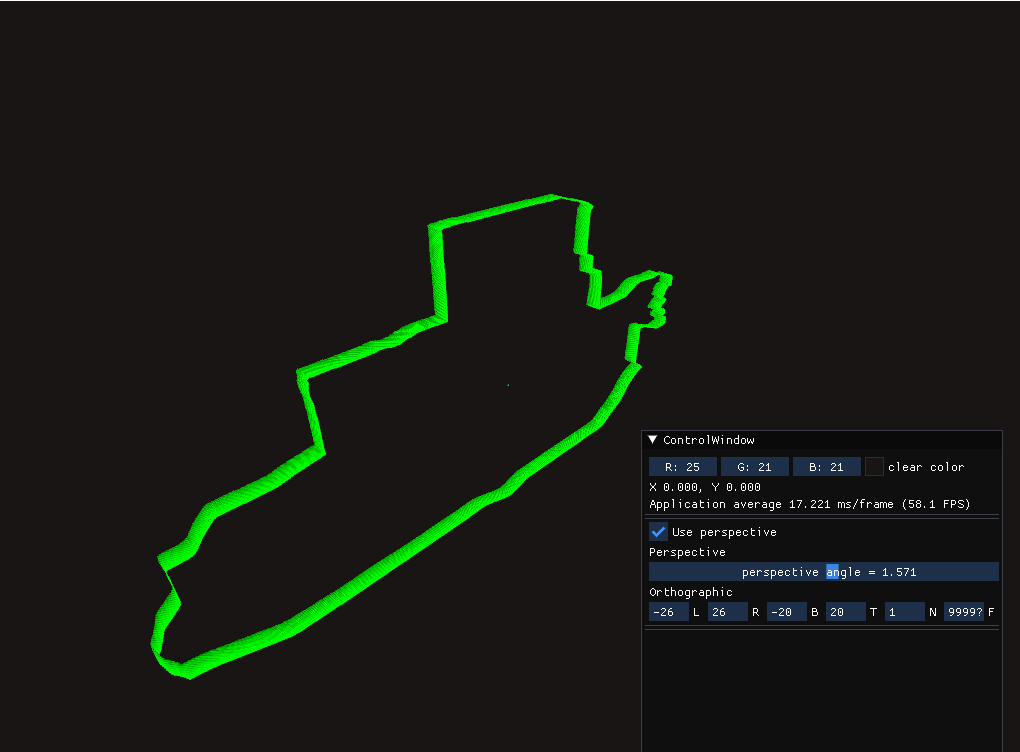
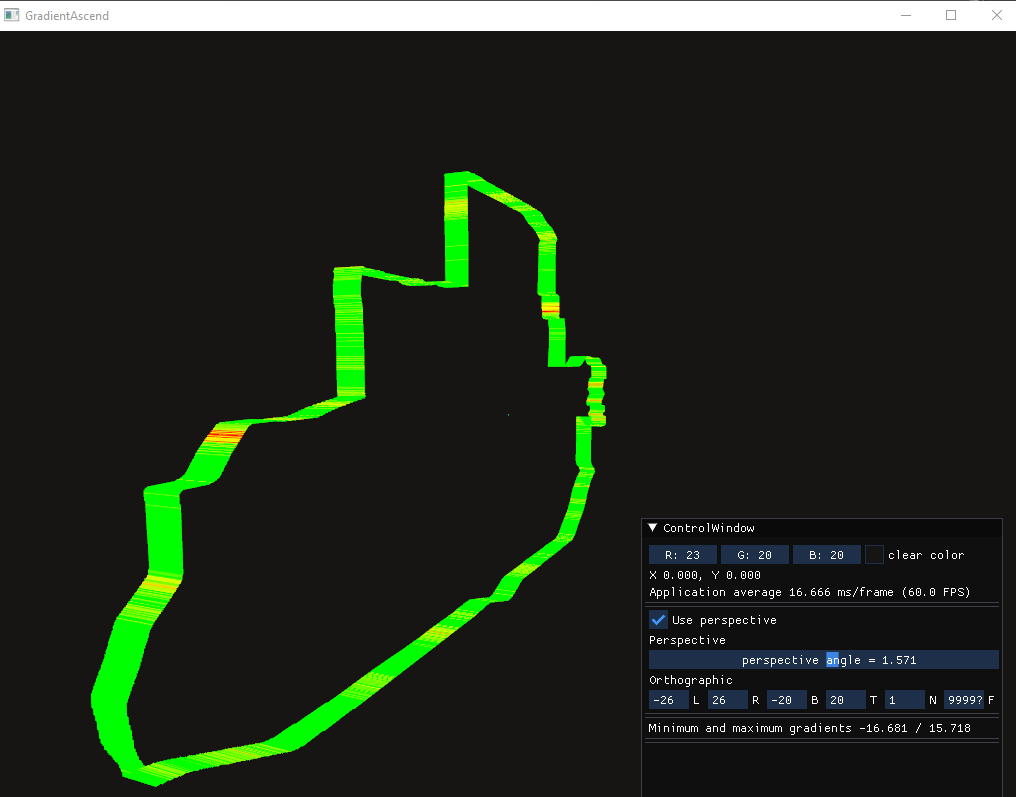
first attempt to calculate gradient.

Changed region(s): [[0.0915, 0.2141, 0.6713, 1.0], [0.6102, 0.5811, 1.0, 0.9481], [0.0, 0.0, 1.0, 0.0612]]

diff --git a/source/data_handle/sources/routePreview.cpp b/source/data_handle/sources/routePreview.cpp
@@ -1,12 +1,13 @@
 #include <shaders.h>
 #include <routePreview.h>
+#include <utilities.h>
 
 #define GLM_ENABLE_EXPERIMENTAL
 
 #include <glm/gtc/matrix_transform.hpp>
 #include <glm/gtc/type_ptr.hpp>
 
-RoutePreview::RoutePreview(std::vector<std::tuple<int, int, float>>& rt) : routeData(rt)
+RoutePreview::RoutePreview(std::vector<std::tuple<int, int, float, float>>& rt) : routeData(rt)
 {
 }
 
@@ -44,6 +45,7 @@ void RoutePreview::Setup()
         offsetY = sumY / routeData.size();
     }
 
+    float maxGradient = getMaxRouteGradient(routeData) * 0.75f;
 
     location.reserve(routeData.size() * 18);
     color.reserve(routeData.size() * 24);
@@ -54,8 +56,6 @@ void RoutePreview::Setup()
 
     float prevReal = 0.0f;
 
-    std::vector<GLfloat> green = {0.0f, 1.0f, 0.0f, 1.0};
-   
     for (auto it = routeData.begin() + 1; it != routeData.end(); ++it)
     {
         auto t2 = *it;
@@ -64,13 +64,17 @@ void RoutePreview::Setup()
         location.push_back(std::get<1>(t1) - offsetY);
         location.push_back(0);
 
-        color.insert(color.end(), green.begin(), green.end());
+        RGBA t1color = gradientToColor(std::get<3>(t1), maxGradient);
+
+        color.insert(color.end(), { t1color.r, t1color.g, t1color.b, t1color.a });
 
         location.push_back(std::get<0>(t2) - offsetX);
         location.push_back(std::get<1>(t2) - offsetY);
         location.push_back(0);
 
-        color.insert(color.end(), green.begin(), green.end());
+        RGBA t2color = gradientToColor(std::get<3>(t2), maxGradient);
+
+        color.insert(color.end(), { t2color.r, t2color.g, t2color.b, t2color.a });
 
         location.push_back(std::get<0>(t1) - offsetX);
         location.push_back(std::get<1>(t1) - offsetY);
@@ -84,19 +88,19 @@ void RoutePreview::Setup()
 
         location.push_back(t * scale);
 
-        color.insert(color.end(), green.begin(), green.end());
+        color.insert(color.end(), { t1color.r, t1color.g, t1color.b, t1color.a });
 
         location.push_back(std::get<0>(t1) - offsetX);
         location.push_back(std::get<1>(t1) - offsetY);
         location.push_back(t * scale);
 
-        color.insert(color.end(), green.begin(), green.end());
+        color.insert(color.end(), { t1color.r, t1color.g, t1color.b, t1color.a });
 
         location.push_back(std::get<0>(t2) - offsetX);
         location.push_back(std::get<1>(t2) - offsetY);
         location.push_back(0);
 
-        color.insert(color.end(), green.begin(), green.end());
+        color.insert(color.end(), { t2color.r, t2color.g, t2color.b, t2color.a });
 
         location.push_back(std::get<0>(t2) - offsetX);
         location.push_back(std::get<1>(t2) - offsetY);
@@ -111,7 +115,7 @@ void RoutePreview::Setup()
 
         location.push_back(t * scale);
 
-        color.insert(color.end(), { 0.0f, 0.0f, 0.0f, 1.0f });
+        color.insert(color.end(), { t2color.r, t2color.g, t2color.b, t2color.a });
 
         t1 = t2;
     }

diff --git a/include/utilities.h b/include/utilities.h
@@ -1,0 +1,115 @@
+#pragma once
+
+#include <algorithm>
+#include <numeric>
+
+struct RGBA 
+{
+	RGBA() : r(0.0f), g(0.0f), b(0.0f), a(1.0f) {}
+
+	float r; // 0-1.0f
+	float g; // 0-1.0f
+	float b; // 0-1.0f
+	float a; // alpha
+};
+
+
+inline RGBA hsvToRgb(float h, float s, float v)
+{
+	RGBA rgba;
+
+	if (s == 0)
+	{
+		rgba.r = v;
+		rgba.g = v;
+		rgba.b = v;
+	}
+	else
+	{
+		int i = static_cast<int>(h / 60.0f) % 6;
+		float f = (h / 60.0f) - static_cast<int>(h / 60.0f);
+		float p = v * (1.0f - s);
+		float q = v * (1.0f - s * f);
+		float t = v * (1.0f - s * (1.0f - f));
+
+		switch (i)
+		{
+		case 0:
+			rgba.r = v;
+			rgba.g = t;
+			rgba.b = p;
+			break;
+		case 1:
+			rgba.r = q;
+			rgba.g = v;
+			rgba.b = p;
+			break;
+		case 2:
+			rgba.r = p;
+			rgba.g = v;
+			rgba.b = t;
+			break;
+		case 3:
+			rgba.r = p;
+			rgba.g = q;
+			rgba.b = v;
+			break;
+		case 4:
+			rgba.r = t;
+			rgba.g = p;
+			rgba.b = v;
+			break;
+		case 5:
+			rgba.r = v;
+			rgba.g = p;
+			rgba.b = q;
+			break;
+		}
+	}
+
+	return rgba;
+}
+
+
+// Maps a gradient percentage to an RGB color via HSV
+// Green (120 deg) -> Yellow (60 deg) -> Red (0 deg)
+inline RGBA gradientToColor(float percentGrade, float maxExpectedGrade = 20.0f) 
+{
+	float clampedGrade = std::clamp(percentGrade, 0.0f, maxExpectedGrade);
+	float normalized = clampedGrade / maxExpectedGrade;
+	float hue = (1.0f - normalized) * 120.0f;
+	return hsvToRgb(hue, 1.0f, 1.0f);
+}
+
+inline float getMinRouteGradient(const std::vector<std::tuple<int, int, float, float>>& rt)
+{
+	auto maxIt = std::ranges::min_element(rt,
+		{}, [](const auto& t)
+		{
+			return std::get<3>(t);
+		});
+
+	return std::get<3>(*maxIt);
+}
+
+inline float getMaxRouteGradient(const std::vector<std::tuple<int, int, float, float>>& rt)
+{
+	auto maxIt = std::ranges::max_element(rt, 
+										{}, [](const auto& t) 
+											{
+												return std::get<3>(t);
+											});
+
+	return std::get<3>(*maxIt);
+}
+
+inline float getMeanRouteGradient(const std::vector<std::tuple<int, int, float, float>>& rt)
+{
+	float sum = std::accumulate(rt.begin(), rt.end(), 0.0f, [](float current_sum, const auto& t) {
+		return current_sum + std::get<3>(t);
+		});
+
+	float mean = sum / rt.size();
+
+	return mean;
+}

diff --git a/source/data_handle/main.cpp b/source/data_handle/main.cpp
@@ -24,6 +24,7 @@
 #include <window.h>
 #include <activity_stream.h>
 #include <geo_data_handler.h>
+#include <utilities.h>
 
 std::unique_ptr<Context> context;
 
@@ -38,7 +39,7 @@ int main()
 
 	fs::path testgpxpath(R"(D:\Files\GradientAscent\data\Afternoon_Ride.gpx)");
 
-	std::vector<std::tuple<int, int, float>> routeData;
+	std::vector<std::tuple<int, int, float, float>> routeData;
 
 	try
 	{
@@ -56,6 +57,8 @@ int main()
 		std::cout << std::format("number of points: {}\n", trackpoints.size());
 
 		routeData.reserve(trackpoints.size());
+
+		trackpoint tp = trackpoints.front();
 
 		for (auto& t : trackpoints)
 		{
@@ -78,13 +81,19 @@ int main()
 
 				if (pixelError == GEO_DATA_ERROR::GEO_DATA_NO_ERROR)
 				{
-					routeData.push_back({ row, col, t.elevation });
+					float gradient;
+					computeGradient(tp, t, gradient);
+					routeData.push_back({ row, col, t.elevation, gradient});
 				}
 			}
 			else
 			{
 				std::cout << std::format("{}tiff elevation is nan{}\n", RED, RESET);
 			}
+
+			
+
+			tp = t;
 		}
 
 		std::cout << std::format("Saved points: {} vs reserved {}\n", routeData.size(), routeData.capacity());
@@ -94,6 +103,9 @@ int main()
 		std::cout << std::format("Global exception: {}", e.what());
 		return 0;
 	}
+
+	float minimumGraident = getMinRouteGradient(routeData);
+	float maximumGradient = getMaxRouteGradient(routeData);
 
 	glfwSetErrorCallback(glfw_error_callback);
 
@@ -143,7 +155,7 @@ int main()
 	ImGui_ImplGlfw_InitForOpenGL(window.GetHandler(), true);
 	ImGui_ImplOpenGL3_Init(glsl_version);
 
-	auto backgroundColor = ImVec4(1.0f, 1.0f, 1.0f, 1.0f);
+	auto backgroundColor = ImVec4(23.0f/255.0f, 20.0f/255.0f, 20.0f/255.0f, 1.0f);
 
 	glDisable(GL_DEPTH_TEST);
 
@@ -180,6 +192,9 @@ int main()
 				ImGui::InputText("N", context->orthoNear, 5); ImGui::SameLine();
 				ImGui::InputText("F", context->orthoFar, 5);
 				ImGui::PushItemWidth(ImGui::GetWindowWidth());
+				ImGui::Separator();
+				ImGui::Separator();
+				ImGui::Text("Minimum and maximum gradients %0.3f / %0.3f", minimumGraident, maximumGradient);
 				ImGui::Separator();
 				ImGui::Separator();
 				ImGui::End();

diff --git a/include/geo_data_handler.h b/include/geo_data_handler.h
@@ -231,7 +231,42 @@ int ot_data_download(const std::string& filename, float minlat, float maxlat, fl
 
 	curl_global_cleanup();
 	return 0;
-
 }
 
+inline float toRadians(float degree) 
+{
+	return degree * M_PI / 180.0f;
+}
 
+GEO_DATA_ERROR computeGradient(trackpoint& first, trackpoint& second, float& gradient)
+{
+	float rise = second.elevation - first.elevation;
+
+	const float EARTH_R = 6371000.0f;
+
+	float lat1_rad = toRadians(first.lat);
+	float lat2_rad = toRadians(second.lat);
+	float dLat = toRadians(second.lat - first.lat);
+	float dLon = toRadians(second.lon - first.lon);
+
+	float a = std::sin(dLat / 2.0f) * std::sin(dLat / 2.0f) +
+				std::cos(lat1_rad) * std::cos(lat2_rad) *
+				std::sin(dLon / 2.0f) * std::sin(dLon / 2.0f);
+
+	float c = 2.0f * std::atan2(std::sqrt(a), std::sqrt(1.0f - a));
+	float run = EARTH_R * c; // horizontal distance in meters
+
+	// Handle edge case where points are in the exact same horizontal spot
+	if (run == 0.0f) 
+	{
+		gradient = 0.0f;
+		return GEO_DATA_ERROR::GEO_DATA_NO_ERROR;
+	}
+
+	// 3. Compute Gradient variations
+	float gradientDecimal = rise / run;
+	gradient = gradientDecimal * 100.0f;
+	float angleDegrees = std::atan(gradientDecimal) * 180.0f / M_PI;
+
+	return GEO_DATA_ERROR::GEO_DATA_NO_ERROR;
+}

diff --git a/source/data_handle/include/routePreview.h b/source/data_handle/include/routePreview.h
@@ -18,10 +18,10 @@ private:
     std::vector<GLfloat> location;
     std::vector<GLfloat> color;
 
-    std::vector<std::tuple<int, int, float>> routeData;
+    std::vector<std::tuple<int, int, float, float>> routeData;
 public:
 
-    RoutePreview(std::vector<std::tuple<int, int, float>> &routeData);
+    RoutePreview(std::vector<std::tuple<int, int, float, float>> &routeData);
     ~RoutePreview();
 
     void SetProjection(glm::mat4 p);
